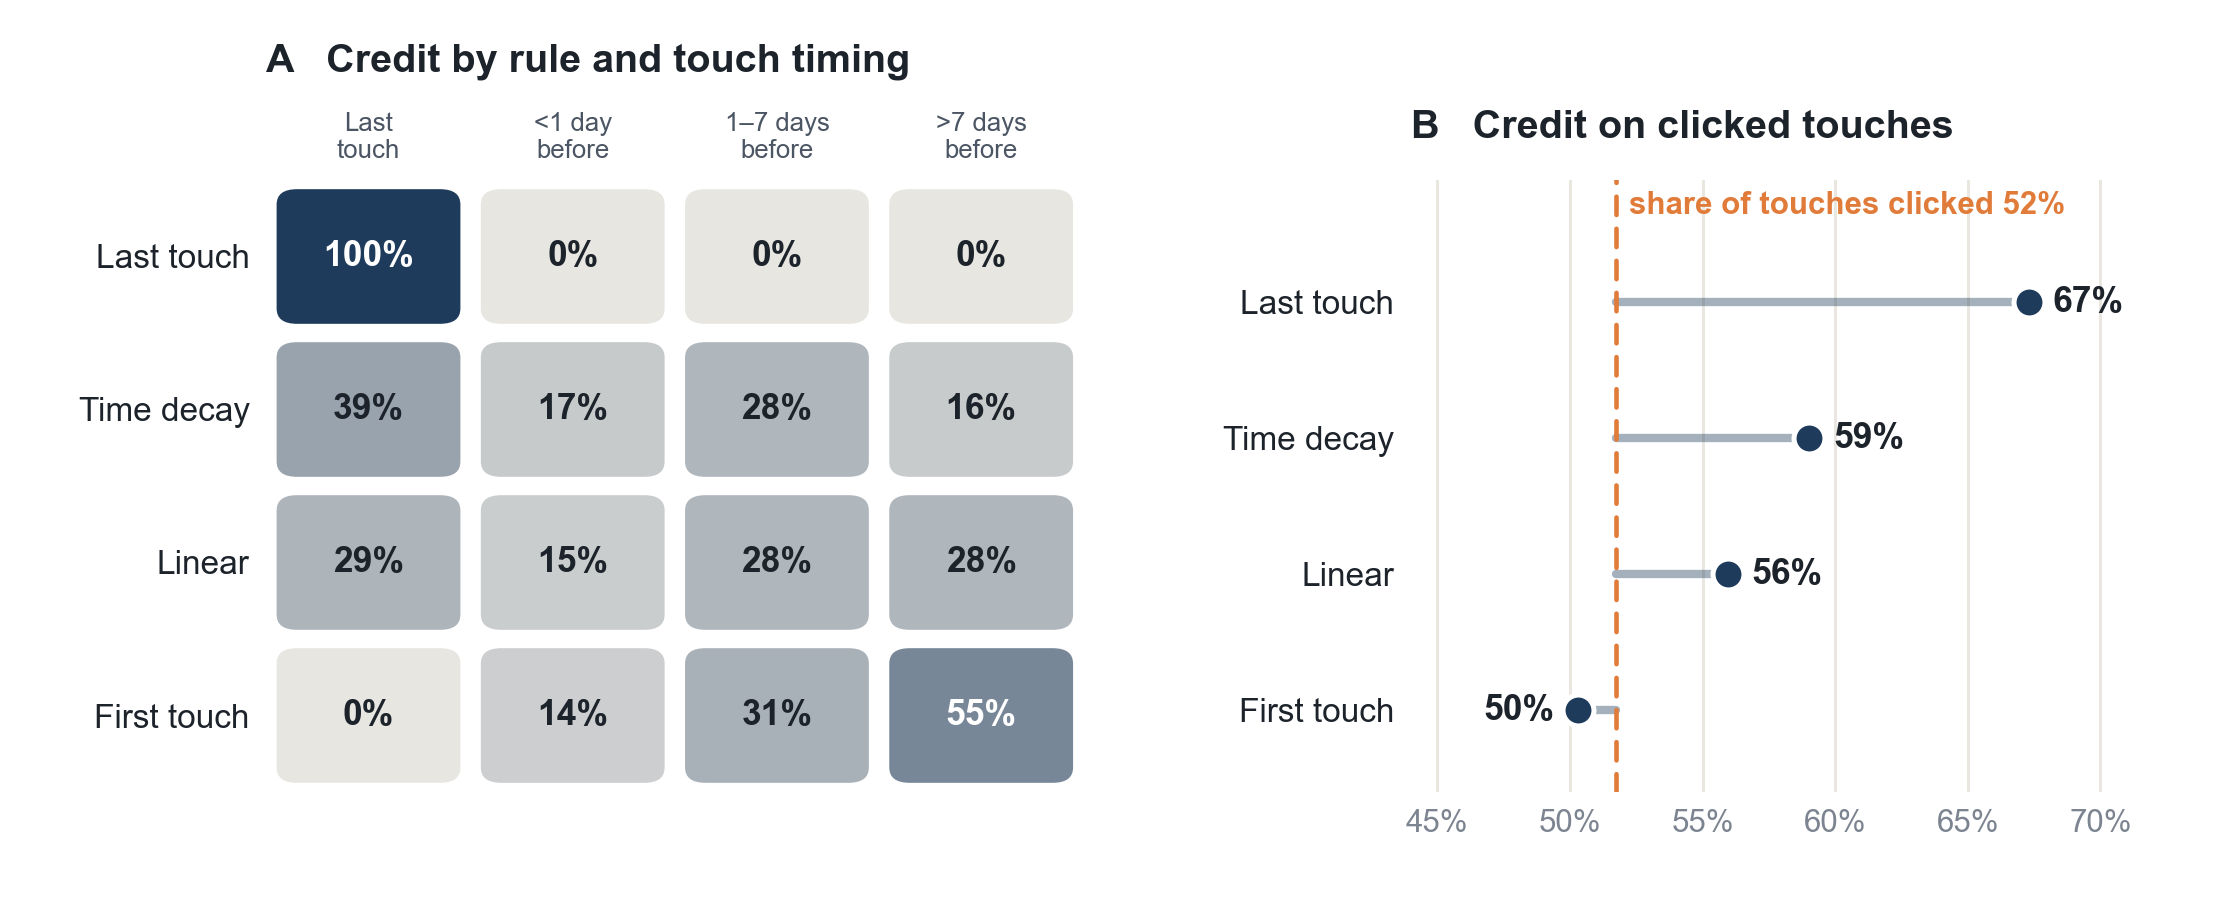
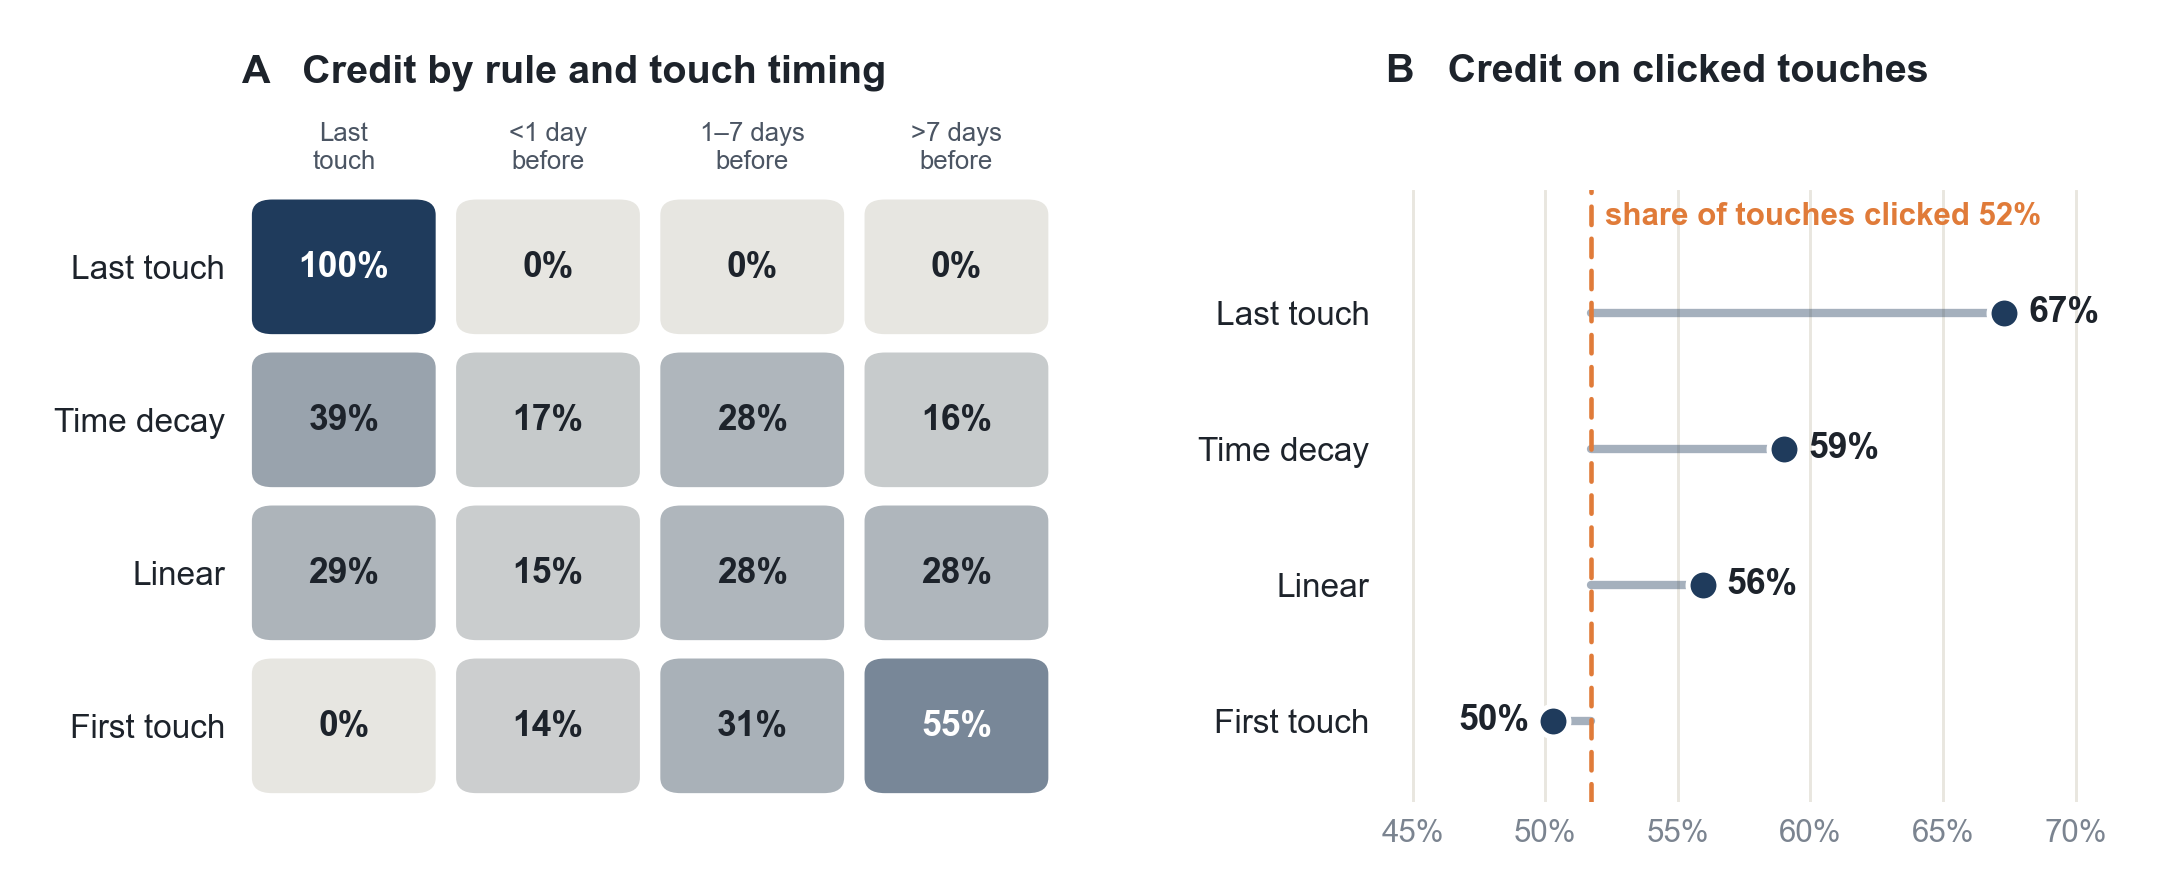
Align panel titles, give every figure the same margin, note the plan's campaign-span figure
- Panel titles in each row share one baseline; figure 3 is drawn on a wider canvas so its titles and labels have room
- Every figure is cropped to its content with a 0.18 in margin, which also restores figure 6's clipped axis label
- 02b and 02c deviation notes: the plan's 0.7% campaign-span figure came from the click-only conversion label (29% on rebuilt paths)
- Site: animation progress is clamped so values never flash below zero

diff --git a/docs/assets/explorer.js b/docs/assets/explorer.js
@@ -31,10 +31,11 @@ function svgIn(host, w, h) { host.innerHTML = ""; return el("svg", { width: w, h
 const lin = (d0, d1, r0, r1) => v => r0 + (v - d0) / (d1 - d0) * (r1 - r0);
 const lg = (d0, d1, r0, r1) => { const a = Math.log10(d0), b = Math.log10(d1); return v => r0 + (Math.log10(v) - a) / (b - a) * (r1 - r0); };
 const ease = t => t < .5 ? 4 * t * t * t : 1 - Math.pow(-2 * t + 2, 3) / 2;
+// frame times can precede t0, so progress is clamped at 0 as well as 1
 function tween(dur, step, done) {
   if (reduce || dur <= 0 || document.hidden) { step(1); if (done) done(); return; }
   const t0 = performance.now();
-  (function f(now) { const t = Math.min(1, (now - t0) / dur); step(ease(t)); if (t < 1) requestAnimationFrame(f); else if (done) done(); })(t0);
+  (function f(now) { const t = Math.max(0, Math.min(1, (now - t0) / dur)); step(ease(t)); if (t < 1) requestAnimationFrame(f); else if (done) done(); })(t0);
 }
 /* animate numeric attributes of several elements together */
 function animate(items, dur = 650, done) {

diff --git a/docs/01.html b/docs/01.html
@@ -111,6 +111,6 @@
 </div></footer>
 <div id="tip" role="tooltip"></div>
 <script src="data.js?v=20261118g"></script>
-<script src="assets/explorer.js?v=20261118k"></script>
+<script src="assets/explorer.js?v=20261118m"></script>
 </body>
 </html>

diff --git a/docs/02.html b/docs/02.html
@@ -105,6 +105,6 @@
 </div></footer>
 <div id="tip" role="tooltip"></div>
 <script src="data.js?v=20261118g"></script>
-<script src="assets/explorer.js?v=20261118k"></script>
+<script src="assets/explorer.js?v=20261118m"></script>
 </body>
 </html>

diff --git a/docs/index.html b/docs/index.html
@@ -166,6 +166,6 @@
 </div></footer>
 <div id="tip" role="tooltip"></div>
 <script src="data.js?v=20261118g"></script>
-<script src="assets/explorer.js?v=20261118k"></script>
+<script src="assets/explorer.js?v=20261118m"></script>
 </body>
 </html>

diff --git a/docs/03.html b/docs/03.html
@@ -85,6 +85,6 @@
 </div></footer>
 <div id="tip" role="tooltip"></div>
 <script src="data.js?v=20261118g"></script>
-<script src="assets/explorer.js?v=20261118k"></script>
+<script src="assets/explorer.js?v=20261118m"></script>
 </body>
 </html>

diff --git a/docs/04.html b/docs/04.html
@@ -63,6 +63,6 @@
 </div></footer>
 <div id="tip" role="tooltip"></div>
 <script src="data.js?v=20261118g"></script>
-<script src="assets/explorer.js?v=20261118k"></script>
+<script src="assets/explorer.js?v=20261118m"></script>
 </body>
 </html>

diff --git a/figures/figstyle.py b/figures/figstyle.py
@@ -121,10 +121,53 @@ def nice_log(ax, axis, ticks, labels=None):
     ax.minorticks_off()
 
 
+def align_panel_titles(fig):
+    """Put the panel titles ("A   ...", "B   ...") of each row of panels on one baseline, the highest in that row."""
+    import re
+    fig.canvas.draw()
+    items = []
+    for ax in fig.axes:
+        t = ax._left_title
+        if t.get_visible() and re.match(r"^[A-Z] {2,}", t.get_text()):
+            x, y = t.get_transform().transform(t.get_position())
+            items.append((ax.get_position(), t, x, y))
+    rows = []
+    for it in sorted(items, key=lambda i: -i[0].y1):
+        for r in rows:
+            if it[0].y0 < r[0][0].y1 and it[0].y1 > r[0][0].y0:
+                r.append(it); break
+        else:
+            rows.append([it])
+    inv = fig.transFigure.inverted()
+    for r in rows:
+        if len(r) < 2:
+            continue
+        top = max(i[3] for i in r)
+        for _, t, x, y in r:
+            fx, fy = inv.transform((x, top))
+            fig.text(fx, fy, t.get_text(), fontproperties=t.get_fontproperties(), color=t.get_color(), ha="left", va="baseline")
+            t.set_visible(False)
+
+
 def save(fig, rel):
-    fig.savefig(ROOT / rel, dpi=300)
+    align_panel_titles(fig)
+    fig.savefig(ROOT / rel, dpi=300, bbox_inches="tight", pad_inches=0.3)
+    pad_to_content(ROOT / rel)
     plt.close(fig)
     print("wrote", rel)
+
+
+def pad_to_content(path, pad=54):
+    """Crop the saved PNG to its visible content and add the same white margin (0.18 in at 300 dpi) on every side."""
+    from PIL import Image, ImageChops
+    im = Image.open(path).convert("RGB")
+    box = ImageChops.difference(im, Image.new("RGB", im.size, "white")).point(lambda v: 255 if v > 30 else 0).getbbox()
+    if not box:
+        return
+    l, t, r, b = box
+    out = Image.new("RGB", (r - l + 2 * pad, b - t + 2 * pad), "white")
+    out.paste(im.crop(box), (pad, pad))
+    out.save(path, dpi=(300, 300))
 
 
 # ------------------------------------------------------------------ data in the units the charts use

diff --git a/figures/make_figures.py b/figures/make_figures.py
@@ -33,11 +33,11 @@ def figure2():
 
 def figure3():
     """Attribution without an experiment: the exposure effect, credit by rule, and bidding."""
-    fig, ax = plt.subplots(1, 3, figsize=(7.4, 3.2), dpi=300, gridspec_kw=dict(width_ratios=[0.95, 1.0, 1.05]))
+    fig, ax = plt.subplots(1, 3, figsize=(8.4, 3.5), dpi=300, gridspec_kw=dict(width_ratios=[0.84, 1.14, 1.0]))  # wider canvas: text is smaller relative to the page, B title fits beside C
     p_exposure(ax[0], "A", "Effect of exposure on visits")
     p_heat(ax[1], "B", "Credit by rule and touch timing")
     p_bidding(ax[2], "C", "Bidding by rule")
-    fig.subplots_adjust(left=0.19, right=0.985, top=0.8, bottom=0.2, wspace=0.62)
+    fig.subplots_adjust(left=0.185, right=0.965, top=0.8, bottom=0.2, wspace=0.6)
     save(fig, "figures/figure3.png")
 
 

diff --git a/02_without_an_experiment/02b_multi_touch_attribution/design/deviations.md b/02_without_an_experiment/02b_multi_touch_attribution/design/deviations.md
@@ -8,3 +8,9 @@ The plan covers this study (Part B) and study 02c (Part A); it was written and h
 2. **Data-driven credit not used.** The decision rule was met (AUC 0.83 against 0.62), but the removal-effect credits
    are not reliable: removing a touch does not re-index the recency of the remaining touches, and negative effects are
    clipped. They are in `out/mta.json` (`cr_dd`) and are not used in any conclusion.
+3. **A data profile quoted in the plan.** The plan says 32.3% of conversions have more than one touch and 0.7% touch
+   more than one campaign. Both figures come from the raw file's conversion label, which sits on clicked impressions
+   only (item 1), so they understate path length and campaign spread. On the rebuilt paths, 65% of converting paths
+   have more than one touch ([`out/mta.json`](../out/mta.json)) and 29% touch two or more campaigns; among the 64,159
+   multi-touch test conversions the share is 44.7% ([`out/campaign_span.json`](../out/campaign_span.json)). No test
+   is affected; the statement that this is attribution within one display network, not across channels, still holds.

diff --git a/02_without_an_experiment/02c_marketing_mix_modeling/design/deviations.md b/02_without_an_experiment/02c_marketing_mix_modeling/design/deviations.md
@@ -11,6 +11,10 @@ The plan covers this study (Part A) and study 02b (Part B); it was written and h
    80%+ of days. Recovery improved to 0.75. Both the weekly and the daily results are kept (`out/mmm_*` and
    `out/mmm_*_daily.*`). The real-data results of the weekly run had been seen before this decision.
 
+The data profile of the Criteo attribution file quoted in `analysis_plan.md` (0.7% of conversions across campaigns)
+belongs to Part B and is corrected in
+[`02b_multi_touch_attribution/design/deviations.md`](../../02b_multi_touch_attribution/design/deviations.md), item 3.
+
 ## `followup_plan.md` (pooled model)
 
 2. **Brand-channels used for the recovery rule.** The plan did not say on which brand-channels the rule is evaluated.
